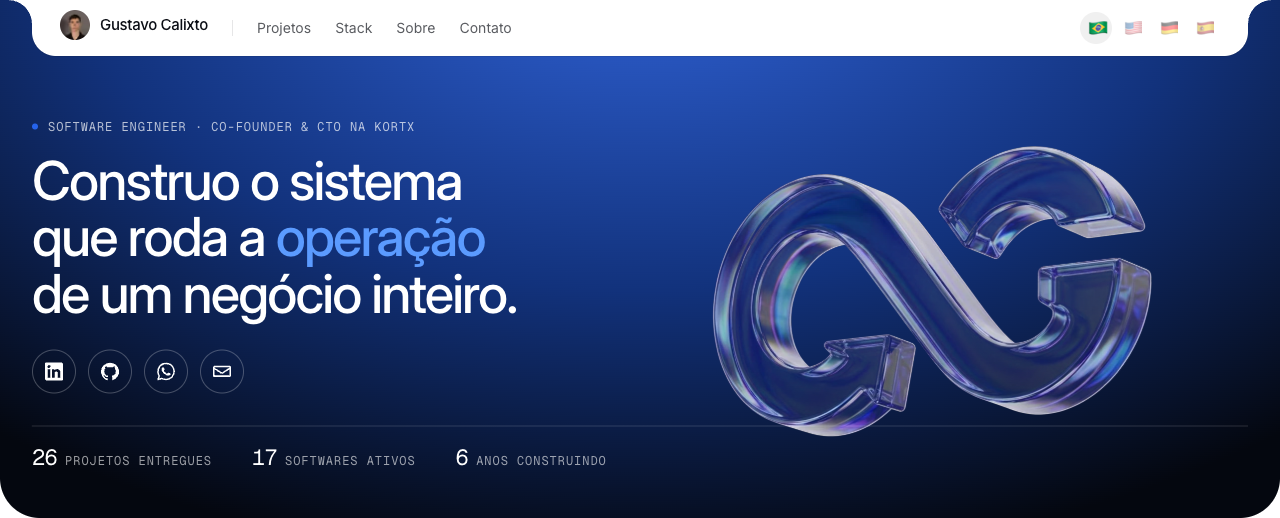
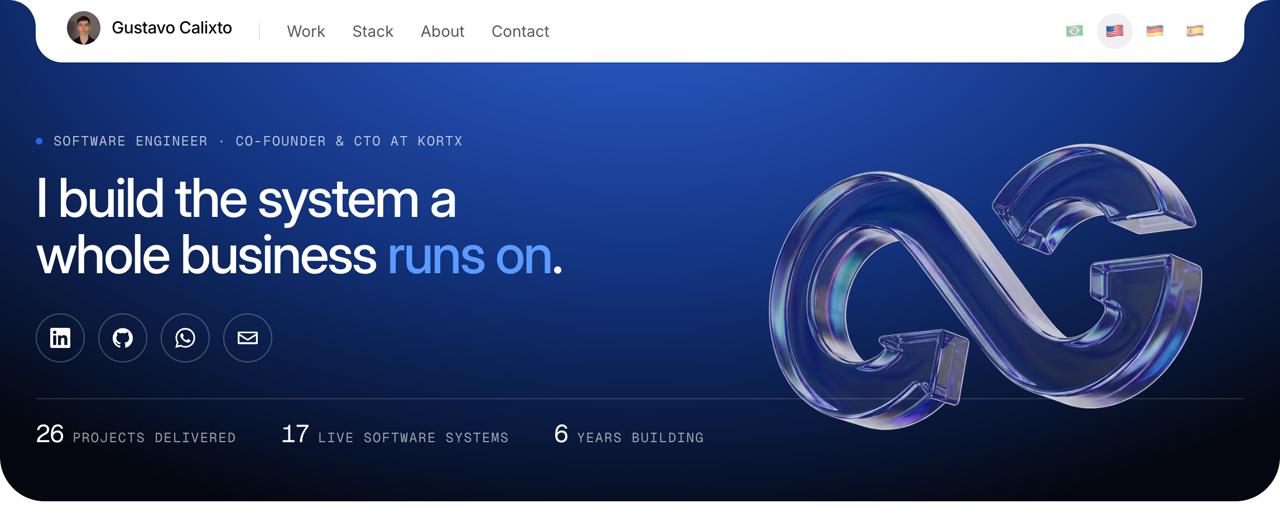
refine: perfil só em inglês, projetos sem stack nem coluna de código, seção de peça técnica fora
Hero do site em inglês, GIF dos motions sem corte no Crias e no Ferry Boat, copy da stack mais leve.

diff --git a/README.md b/README.md
@@ -1,72 +1,62 @@
 <p align="center">
-  <a href="https://www.gustacg.com"><img src="https://img.shields.io/badge/Portf%C3%B3lio-0B1C3A?style=for-the-badge&logo=googlechrome&logoColor=white" alt="Portfólio"></a>
+  <a href="https://www.gustacg.com/en"><img src="https://img.shields.io/badge/Portfolio-0B1C3A?style=for-the-badge&logo=googlechrome&logoColor=white" alt="Portfolio"></a>
   <a href="https://www.linkedin.com/in/gustacg/"><img src="https://img.shields.io/badge/LinkedIn-0B1C3A?style=for-the-badge&logo=linkedin&logoColor=white" alt="LinkedIn"></a>
   <a href="https://wa.me/559885474582"><img src="https://img.shields.io/badge/WhatsApp-0B1C3A?style=for-the-badge&logo=whatsapp&logoColor=white" alt="WhatsApp"></a>
   <a href="mailto:gustavocalixto2005@gmail.com"><img src="https://img.shields.io/badge/E--mail-0B1C3A?style=for-the-badge&logo=gmail&logoColor=white" alt="E-mail"></a>
-  &nbsp;&nbsp;<a href="README.en.md">English</a>
 </p>
 
-<a href="https://www.gustacg.com">
-  <img src="assets/preview-hero.png" alt="gustacg.com: Construo o sistema que roda a operação de um negócio inteiro." width="100%">
+<a href="https://www.gustacg.com/en">
+  <img src="assets/preview-hero.png" alt="gustacg.com: I build the system a whole business runs on." width="100%">
 </a>
 
-<h3 align="center">26 projetos entregues &nbsp;·&nbsp; 17 softwares ativos &nbsp;·&nbsp; 6 anos construindo</h3>
+<h3 align="center">26 projects delivered &nbsp;·&nbsp; 17 live software systems &nbsp;·&nbsp; 6 years building</h3>
 
-<p align="center">Sócio e CTO da KortX. Passo o dia dentro de sistema que gente de verdade usa para trabalhar: ERP, SaaS, API e atendente de IA, em produção, com cliente pagando. O banco, a regra e a interface recebem a mesma atenção, e é isso que faz o sistema parecer inteiro.</p>
-
-<br>
-
-<p align="center"><code>PROJETOS</code></p>
-<h2 align="center">O que eu construo</h2>
-
-<a href="https://www.gustacg.com/#projetos">
-  <img src="assets/motions.gif" alt="Alpha Motos, Safari Broker, Avance, Riff, Prospecto, Ferry Boat SLZ e Crias" width="100%">
-</a>
-
-<p align="center">Quase tudo é sistema de cliente, código fechado. Cada linha abre a página do projeto no site, com todos os módulos gravados em vídeo.</p>
-
-| Projeto | O que é | Stack | Código |
-|---|---|---|---|
-| [Alpha Motos](https://www.gustacg.com/projetos/alpha-motos) | ERP de uma rede de concessionárias de motos que vende parcelado: do primeiro contato à última parcela, com oficina, peças, site, portal do cliente e hub de chat com IA sobre o mesmo banco. Receita recorrente do cliente cresceu 83% desde o ar. | React, TypeScript, PostgreSQL, Deno, n8n, Sentry | Fechado, cliente |
-| [Safari Broker](https://www.gustacg.com/projetos/safari-broker) | SaaS multi-tenant para imobiliárias: site próprio com domínio, CRM com funis, carteira no mapa, negociações, contratos assinados digitalmente, financeiro e hub de atendimento. R$ 29,7 mi negociados na plataforma. | React, TypeScript, PostgreSQL, Deno, Tailwind, Vercel, Sentry | Fechado, cliente |
-| [Avance](https://www.gustacg.com/projetos/avance) | ERP de escola de idiomas com uma atendente de IA no WhatsApp que vende, cuida do aluno e chama uma pessoa quando precisa. Quatorze módulos em produção. | React, TypeScript, PostgreSQL, WhatsApp Cloud API, n8n, Redis, Docker Swarm | Fechado, cliente |
-| [Riff](https://www.gustacg.com/projetos/riff) | API e painel para consultar multas, IPVA e licenciamento, com monitoramento de frota agendado, consulta em lote e cobrança mensal automática. R$ 2 mi em débitos apontados ao longo de 6.091 consultas. | Python, FastAPI, Playwright, PostgreSQL, React, TypeScript, Docker, Sentry | Fechado · [testar](https://riff.kortx.com.br) |
-| [Prospecto](https://www.gustacg.com/projetos/prospecto) | Plataforma white-label para gestão de agências: CRM com IA, contratos digitais, propostas e financeiro, com deploy inteiro em Docker. | React, TypeScript, Node.js, Docker, PostgreSQL | [Vídeo de instalação](https://www.youtube.com/watch?v=iWFZVsUNjL4) |
-| [Ferry Boat SLZ](https://www.gustacg.com/projetos/ferry-boat-slz) | MVP mobile de balsa: reserva de passagem e de veículo, fila digital com posição e embarque conferido por QR Code. | React Native, Expo, TypeScript, Zustand, PostgreSQL | [Público](https://github.com/gustacg/ferry_boat_slz) |
-| [Crias](https://www.gustacg.com/projetos/crias) | Aplicativo de celular (PWA) de hábitos em grupo com jeito de RPG: check-in diário, sequência, ouro, personagem na trilha e loja de prêmios. | React, TypeScript, Vite, Tailwind, PostgreSQL, Deno, PWA | Fechado, grupo real |
+<p align="center">Co-founder and CTO at KortX. I spend my days inside systems real people use to work: ERPs, SaaS, APIs and AI assistants, in production, with paying clients. The database, the rules and the interface get the same attention, and that is what makes a system feel whole.</p>
 
 <br>
 
-<p align="center"><code>CÓDIGO</code></p>
-<h2 align="center">O que eu posso mostrar</h2>
+<p align="center"><code>WORK</code></p>
+<h2 align="center">What I build</h2>
 
-<p align="center">O que segura esses sistemas vive no banco: idempotência na venda, lock de linha para saldo, isolamento por tenant, fila com <code>for update skip locked</code>, rate limit atômico, guarda anti-SSRF antes de chamar webhook de cliente. Nada disso é de cliente, então vai saindo em peça pequena e genérica, com teste contra Postgres de verdade.</p>
+<p align="center">
+  <a href="https://www.gustacg.com/en#projetos">
+    <img src="assets/motions.gif" alt="Alpha Motos, Safari Broker, Avance, Riff, Prospecto, Ferry Boat SLZ and Crias" width="560">
+  </a>
+</p>
 
-| Peça | O que prova | Teste |
-|---|---|---|
-| [pg-queue](https://github.com/gustacg/pg-queue) | Fila de trabalho dentro do Postgres: reivindicação atômica com `skip locked`, arrendamento, backoff exponencial, fila morta e reprocesso. Uma tabela, cinco funções, worker de cinquenta linhas. | Dois trabalhadores concorrentes, 40 de 40 sem duplicata, contra `postgres:16` em container |
+<p align="center">Almost all of it is client software, closed source. Every project below opens its page on the site, with all modules recorded on video.</p>
+
+| Project | What it is |
+|---|---|
+| [Alpha Motos](https://www.gustacg.com/en/projects/alpha-motos) | A live ERP for a motorcycle dealership network that sells in instalments: from first contact to last instalment, with workshop, parts, public site, customer portal and an AI chat hub on the same database. The client's recurring revenue grew 83% since go-live. |
+| [Safari Broker](https://www.gustacg.com/en/projects/safari-broker) | Multi-tenant SaaS for estate agencies: their own site on their own domain, a CRM with pipelines, a property portfolio on the map, deals, digitally signed contracts, finance and a service hub. R$ 29.7M negotiated on the platform. |
+| [Avance](https://www.gustacg.com/en/projects/avance) | Language school ERP with an AI assistant on WhatsApp that sells, looks after the student and calls in a person when needed. Fourteen modules in production. |
+| [Riff](https://www.gustacg.com/en/projects/riff) | An API and a panel for checking vehicle fines, road tax and licensing, with scheduled fleet monitoring, batch lookups and automatic monthly billing. R$ 2M in debts surfaced across 6,091 lookups. |
+| [Prospecto](https://www.gustacg.com/en/projects/prospecto) | White-label platform for agency management: AI-powered CRM, digital contracts, proposals and finance, fully deployed in Docker. |
+| [Ferry Boat SLZ](https://www.gustacg.com/en/projects/ferry-boat-slz) | Mobile MVP for a ferry: ticket and vehicle booking, a digital queue with your position, and boarding checked by QR code. |
+| [Crias](https://www.gustacg.com/en/projects/crias) | Mobile app (PWA) for group habits with an RPG feel: daily check-in, streaks, gold, a character moving along a trail and a rewards shop. |
 
 <br>
 
-<p align="center"><code>ATIVIDADE</code></p>
-<h2 align="center">Um ano de commits, quase todos em repositório privado</h2>
+<p align="center"><code>ACTIVITY</code></p>
+<h2 align="center">A year of commits, almost all in private repositories</h2>
 
 <picture>
   <source media="(prefers-color-scheme: dark)" srcset="profile-3d-contrib/profile-night-green.svg">
-  <img src="profile-3d-contrib/profile-green-animate.svg" alt="Calendário de contribuições em 3D, público e privado" width="100%">
+  <img src="profile-3d-contrib/profile-green-animate.svg" alt="3D contribution calendar, public and private" width="100%">
 </picture>
 
 <p align="center">
   <picture>
-    <source media="(prefers-color-scheme: dark)" srcset="https://streak-stats.demolab.com/?user=gustacg&theme=dark&hide_border=true&locale=pt_BR">
-    <img src="https://streak-stats.demolab.com/?user=gustacg&hide_border=true&locale=pt_BR" alt="Sequência de contribuições">
+    <source media="(prefers-color-scheme: dark)" srcset="https://streak-stats.demolab.com/?user=gustacg&theme=dark&hide_border=true">
+    <img src="https://streak-stats.demolab.com/?user=gustacg&hide_border=true" alt="Contribution streak">
   </picture>
 </p>
 
 <br>
 
 <p align="center"><code>STACK</code></p>
-<h2 align="center">Só o que está em produção e eu defendo em entrevista</h2>
+<h2 align="center">Some of the tools I work with</h2>
 
 <p align="center">
   <picture>
@@ -80,12 +70,12 @@
   </picture>
 </p>
 
-<p align="center">Mais n8n, Docker Swarm, Traefik, MinIO, Meta Tech Provider, Chatwoot, React Native, Expo, PWA, RAG e embeddings.</p>
+<p align="center">Plus n8n, Docker Swarm, Traefik, Portainer, MinIO, Meta Tech Provider, Chatwoot, React Native, Expo, PWA, push notifications, RAG and embeddings.</p>
 
 <br>
 
 <p align="center">
-  <a href="https://www.gustacg.com"><img src="https://img.shields.io/badge/Ver%20o%20portf%C3%B3lio%20completo-2063F4?style=for-the-badge&logo=googlechrome&logoColor=white" alt="Ver o portfólio completo"></a>
+  <a href="https://www.gustacg.com/en"><img src="https://img.shields.io/badge/See%20the%20full%20portfolio-2063F4?style=for-the-badge&logo=googlechrome&logoColor=white" alt="See the full portfolio"></a>
   &nbsp;
-  <a href="https://wa.me/559885474582"><img src="https://img.shields.io/badge/Falar%20comigo-0B1C3A?style=for-the-badge&logo=whatsapp&logoColor=white" alt="Falar comigo"></a>
+  <a href="https://wa.me/559885474582"><img src="https://img.shields.io/badge/Get%20in%20touch-0B1C3A?style=for-the-badge&logo=whatsapp&logoColor=white" alt="Get in touch"></a>
 </p>
